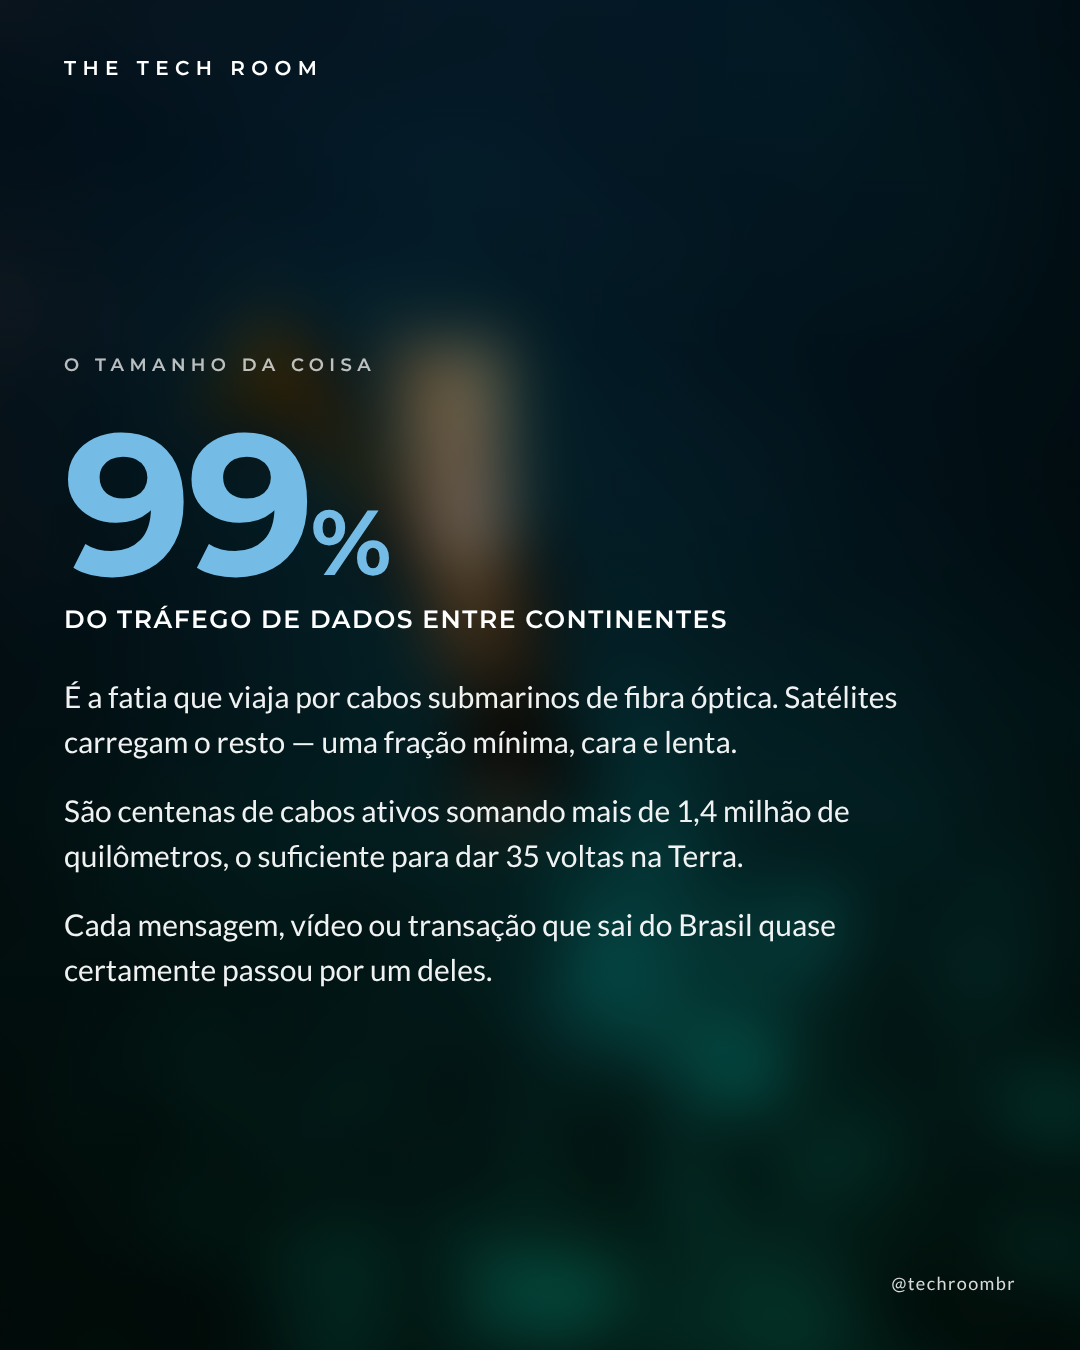
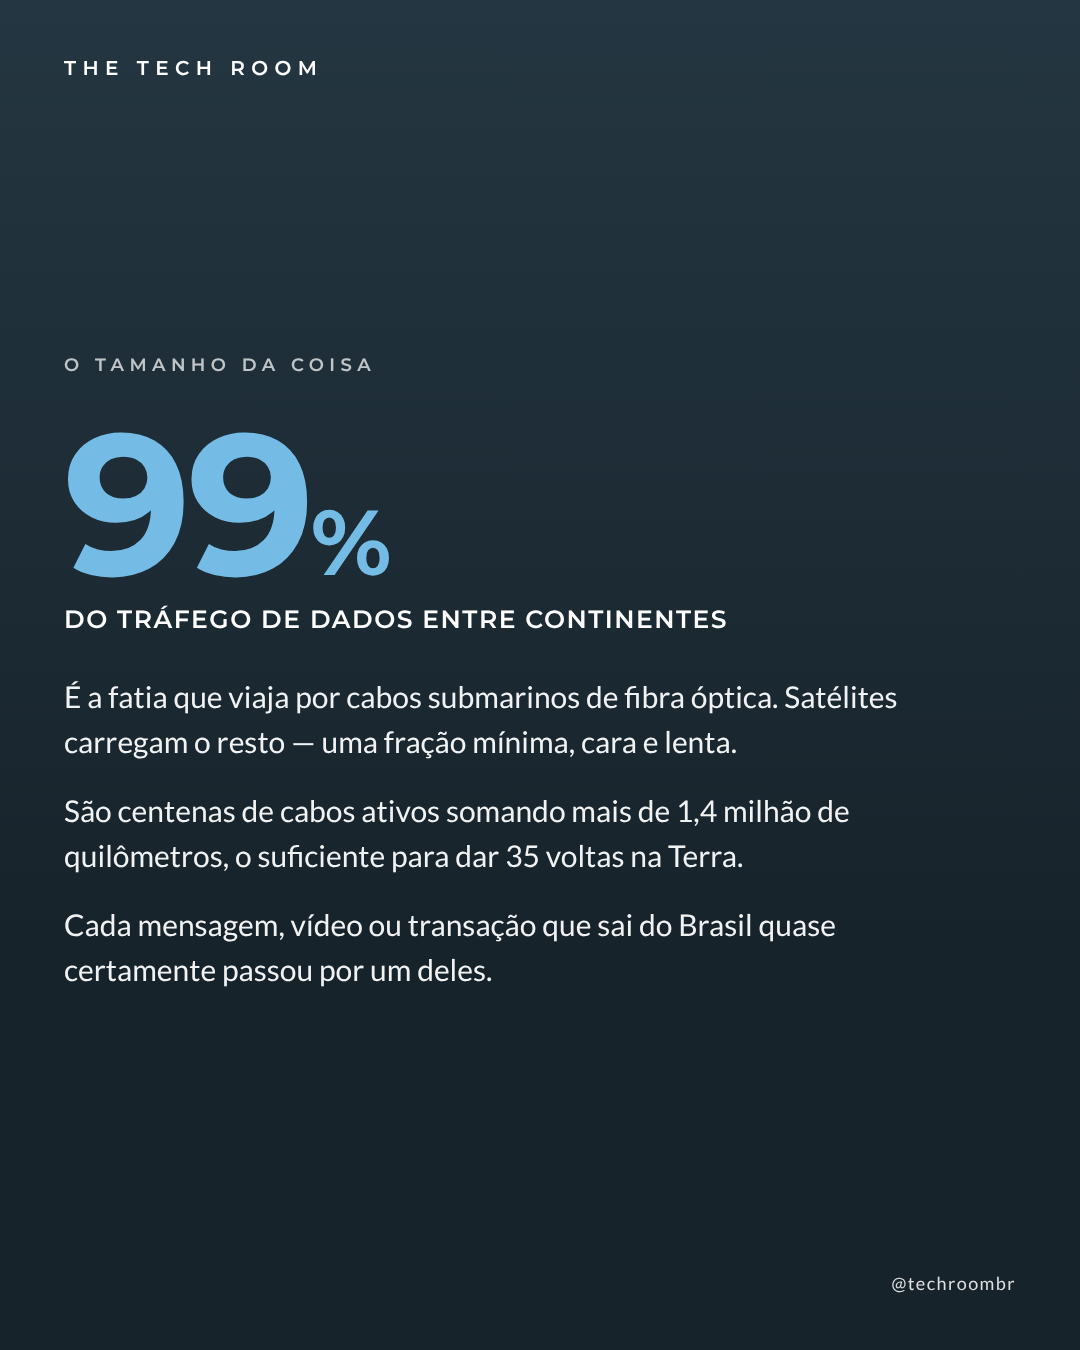
motor: páginas de texto em tom sólido derivado da foto (equilíbrio)
Claude-Session: https://claude.ai/code/session_01DFoqXPsg4WtmKarBEKT4dN

diff --git a/engine/natgeo.html b/engine/natgeo.html
@@ -20,10 +20,9 @@
 
   /* fundo fotográfico: nítido (capa e páginas de foto) ou desfocado (páginas de texto e dados) */
   .bg { position: absolute; inset: 0; background-size: cover; background-position: center; }
-  .soft .bg { inset: -60px; filter: blur(30px) saturate(.95) brightness(.78); transform: scale(1.08); }
   .scrim { position: absolute; inset: 0; }
   .sharp .scrim { background: linear-gradient(to top, rgba(0,0,0,.88) 0%, rgba(0,0,0,.70) 38%, rgba(0,0,0,.25) 62%, rgba(0,0,0,0) 80%); }
-  .soft .scrim { background: linear-gradient(to bottom, rgba(0,0,0,.38), rgba(0,0,0,.55)); }
+  .soft .scrim { background: none; }
 
   .masthead {
     position: absolute; top: 56px; left: 64px; z-index: 2;

diff --git a/engine/natgeo.src.html b/engine/natgeo.src.html
@@ -17,10 +17,9 @@
 
   /* fundo fotográfico: nítido (capa e páginas de foto) ou desfocado (páginas de texto e dados) */
   .bg { position: absolute; inset: 0; background-size: cover; background-position: center; }
-  .soft .bg { inset: -60px; filter: blur(30px) saturate(.95) brightness(.78); transform: scale(1.08); }
   .scrim { position: absolute; inset: 0; }
   .sharp .scrim { background: linear-gradient(to top, rgba(0,0,0,.88) 0%, rgba(0,0,0,.70) 38%, rgba(0,0,0,.25) 62%, rgba(0,0,0,0) 80%); }
-  .soft .scrim { background: linear-gradient(to bottom, rgba(0,0,0,.38), rgba(0,0,0,.55)); }
+  .soft .scrim { background: none; }
 
   .masthead {
     position: absolute; top: 56px; left: 64px; z-index: 2;

diff --git a/engine/render_natgeo.py b/engine/render_natgeo.py
@@ -45,15 +45,33 @@ def accent_from(photo):
     r, g, b = colorsys.hls_to_rgb(h, l, s)
     return "#%02x%02x%02x" % (int(r * 255), int(g * 255), int(b * 255))
 
+def tone_from(photo):
+    """Tom escuro e calmo derivado da foto (mesma matiz do destaque), para páginas de texto."""
+    im = Image.open(path(photo)).convert("RGB").resize((80, 80))
+    best, score = (20, 40, 60), -1
+    for cnt, (r, g, b) in im.getcolors(80 * 80):
+        h, l, s = colorsys.rgb_to_hls(r / 255, g / 255, b / 255)
+        sc = cnt * (s ** 1.5) * (1 - abs(l - .45))
+        if s > .25 and .15 < l < .75 and sc > score:
+            best, score = (r, g, b), sc
+    h, l, s = colorsys.rgb_to_hls(*[c / 255 for c in best])
+    def hexl(ll, ss):
+        r, g, b = colorsys.hls_to_rgb(h, ll, ss); return "#%02x%02x%02x" % (int(r*255), int(g*255), int(b*255))
+    return hexl(.13, .30), hexl(.20, .28)
+
 # ---------- blocos ----------
 def P(lines): return "".join(f"<p>{escape(t)}</p>" for t in lines or [])
 def K(s): return f'<div class="kicker">{escape(s["kicker"])}</div>' if s.get("kicker") else ""
 def H(s): return f'<h2>{escape(s["heading"])}</h2>' if s.get("heading") else ""
 def frame(post, s, body, mode="soft", cls=""):
     """mode: 'sharp' (foto nítida, texto embaixo) ou 'soft' (foto desfocada, texto na área toda)."""
-    bg = s.get("bg") or s.get("photo") or post["_cover_photo"]
     cap = f'<div class="cap">{escape(s["caption"])}</div>' if mode == "sharp" and s.get("caption") else ""
-    return (f'<div class="page {mode} {cls}"><div class="bg" style="background-image:url(\'{uri(bg)}\')"></div><div class="scrim"></div>'
+    if mode == "sharp":
+        bgstyle = f"background-image:url('{uri(s.get('photo') or post['_cover_photo'])}')"
+    else:
+        dark, light = post["_tone"]
+        bgstyle = f"background:linear-gradient(180deg, {light} 0%, {dark} 70%)"
+    return (f'<div class="page {mode} {cls}"><div class="bg" style="{bgstyle}"></div><div class="scrim"></div>'
             f'<div class="masthead">{escape(post["masthead"])}</div>{cap}<div class="content">{body}</div>'
             f'<div class="handle">{escape(post["handle"])}</div></div>')
 
@@ -119,6 +137,7 @@ def main(paths):
             post.setdefault("masthead", "The Tech Room"); post.setdefault("handle", "@techroombr")
             cov = next((s for s in post["slides"] if s["type"] == "cover"), None)
             post["_cover_photo"] = cov["photo"] if cov else None
+            post["_tone"] = tone_from(cov["photo"]) if cov else ("#14202c", "#1d2d3d")
             accent = post.get("accent") or (accent_from(cov["photo"]) if cov else "#1F4E79")
             tpl = TPL.replace("--accent: #9CC8E8", f"--accent: {accent}")
             out = ROOT / "posts" / post["slug"]; out.mkdir(parents=True, exist_ok=True)
